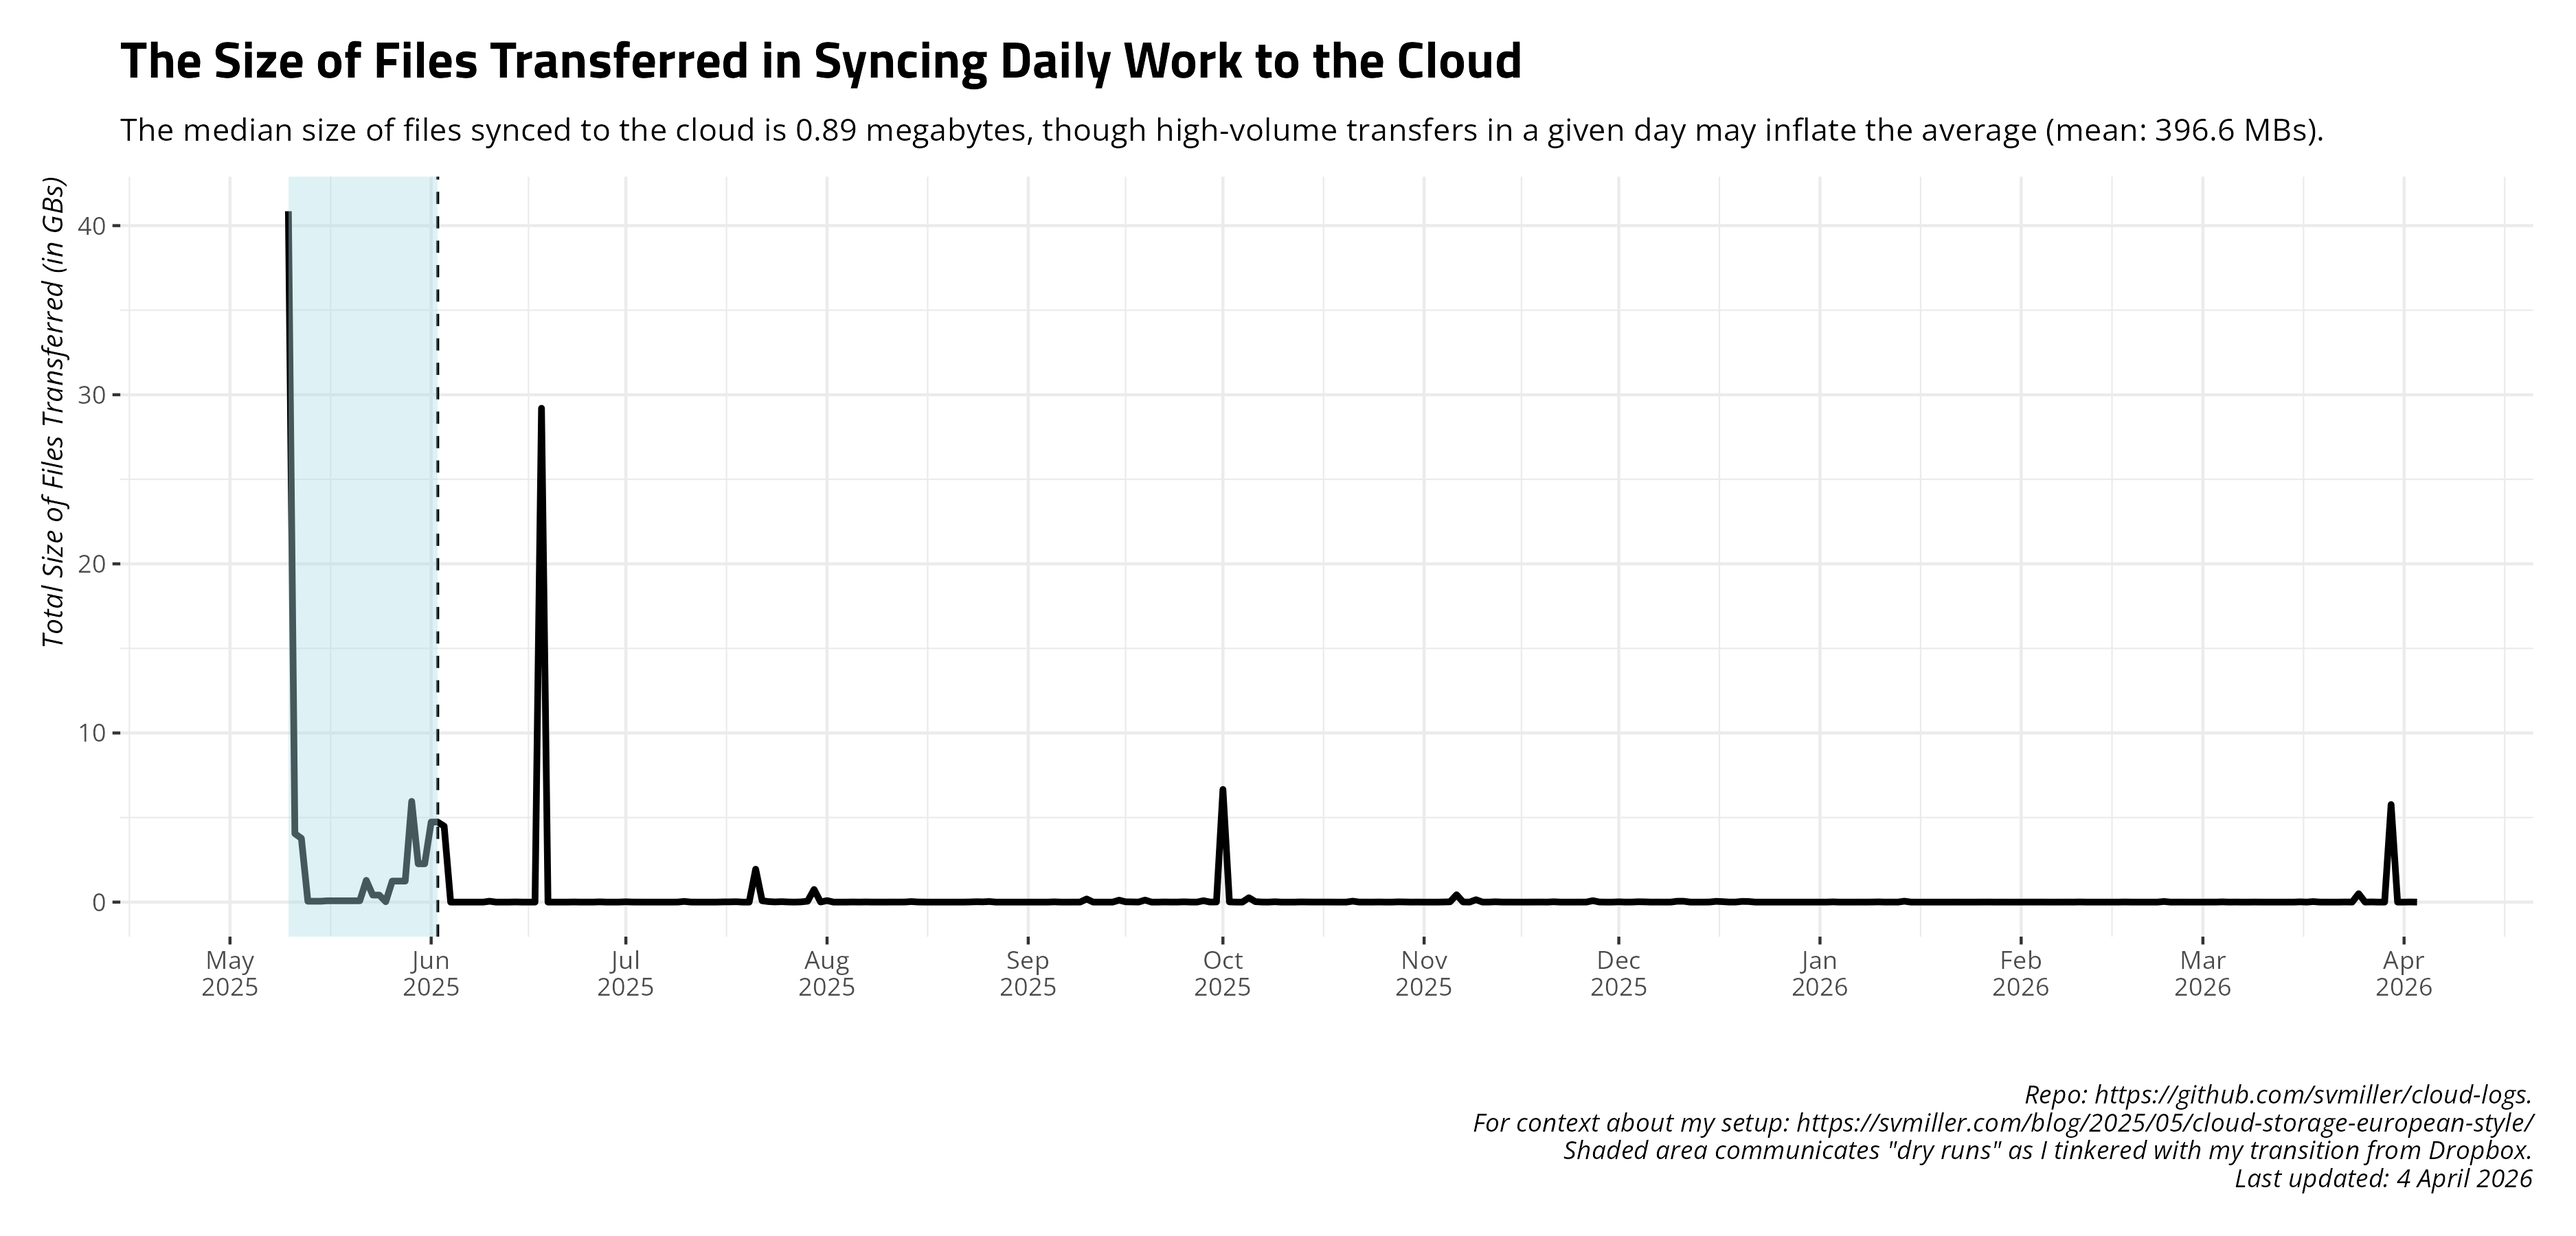
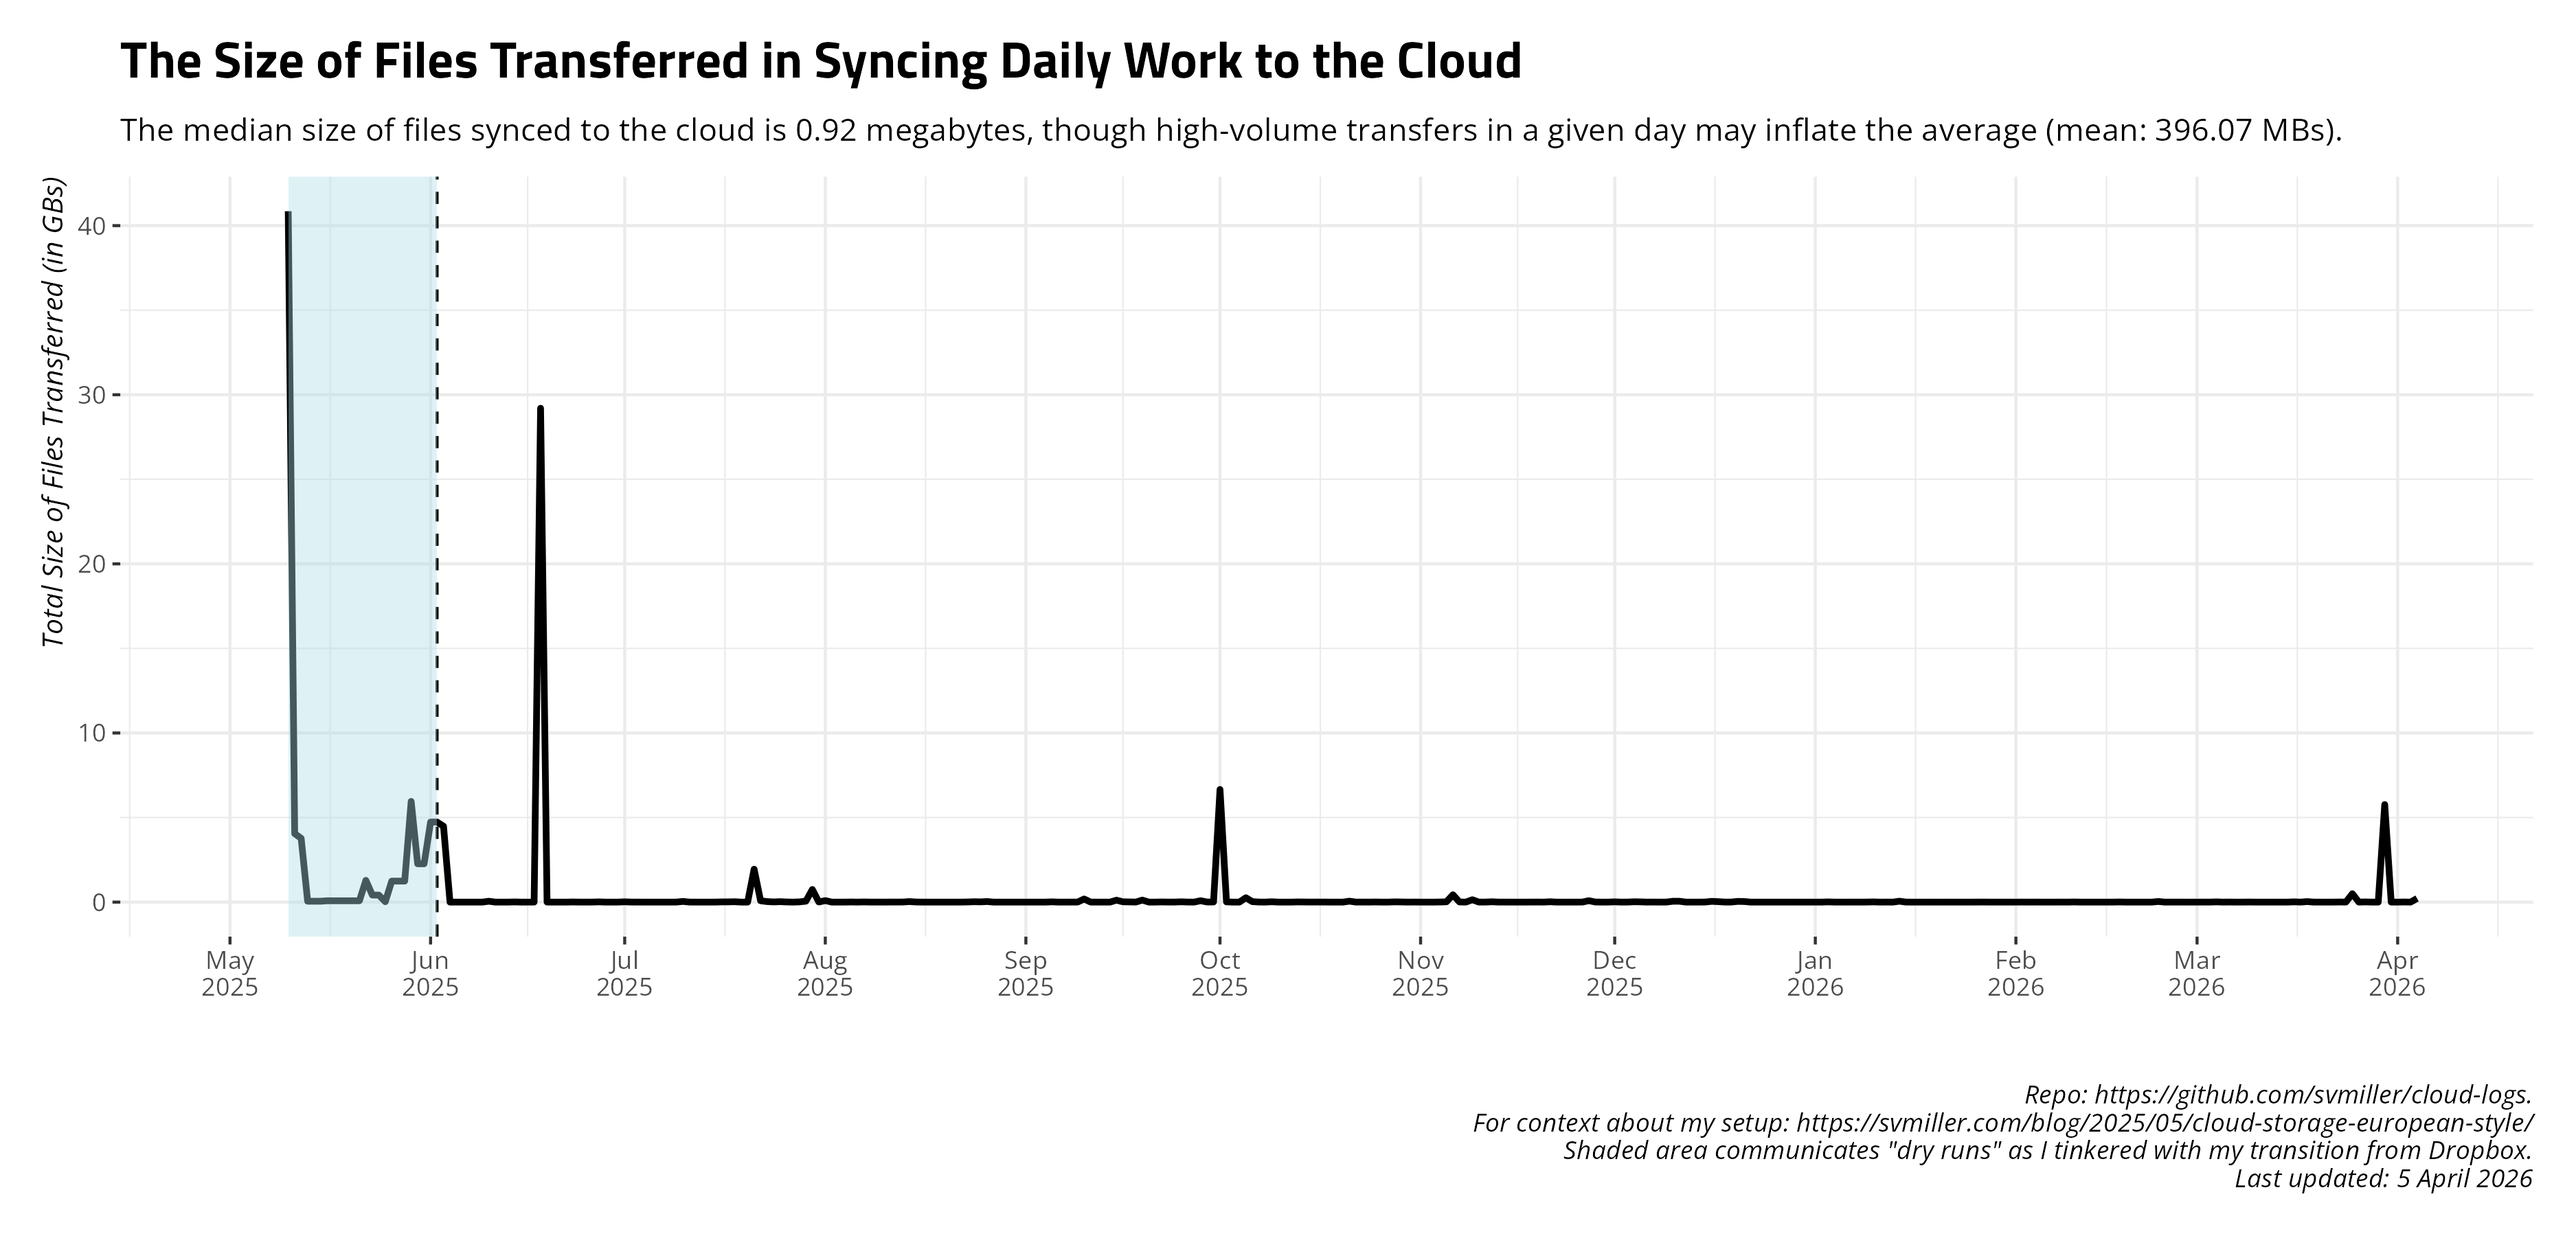
Date: 2026-04-05 09:00:27. Hi mom!

diff --git a/README.md b/README.md
@@ -27,17 +27,17 @@ and uploads to Github.
     #> # A tibble: 14 × 4
     #>    date       ftransfer stransfer   elapsed
     #>    <date>         <dbl> <chr>       <chr>  
-    #>  1 2026-03-21         0 <NA>        5m11.1s
-    #>  2 2026-03-22         4 84.136 KiB  5m9.6s 
-    #>  3 2026-03-23         4 6.955 MiB   5m15.1s
-    #>  4 2026-03-24       111 1.884 MiB   5m27.6s
-    #>  5 2026-03-25       389 508.602 MiB 5m50.4s
-    #>  6 2026-03-26         4 85.605 KiB  5m10.6s
-    #>  7 2026-03-27        23 10.112 MiB  5m18.2s
-    #>  8 2026-03-28        24 134.979 KiB 4m55.9s
-    #>  9 2026-03-29         0 <NA>        5m21.2s
-    #> 10 2026-03-30       872 5.770 GiB   6m27.5s
-    #> 11 2026-03-31         2 21.604 KiB  5m14.1s
-    #> 12 2026-04-01        12 28.383 KiB  5m15.9s
-    #> 13 2026-04-02        23 6.745 MiB   4m16.9s
-    #> 14 2026-04-03         0 <NA>        5m14.8s
+    #>  1 2026-03-22         4 84.136 KiB  5m9.6s 
+    #>  2 2026-03-23         4 6.955 MiB   5m15.1s
+    #>  3 2026-03-24       111 1.884 MiB   5m27.6s
+    #>  4 2026-03-25       389 508.602 MiB 5m50.4s
+    #>  5 2026-03-26         4 85.605 KiB  5m10.6s
+    #>  6 2026-03-27        23 10.112 MiB  5m18.2s
+    #>  7 2026-03-28        24 134.979 KiB 4m55.9s
+    #>  8 2026-03-29         0 <NA>        5m21.2s
+    #>  9 2026-03-30       872 5.770 GiB   6m27.5s
+    #> 10 2026-03-31         2 21.604 KiB  5m14.1s
+    #> 11 2026-04-01        12 28.383 KiB  5m15.9s
+    #> 12 2026-04-02        23 6.745 MiB   4m16.9s
+    #> 13 2026-04-03         0 <NA>        5m14.8s
+    #> 14 2026-04-04         7 220.335 MiB 5m13.2s
